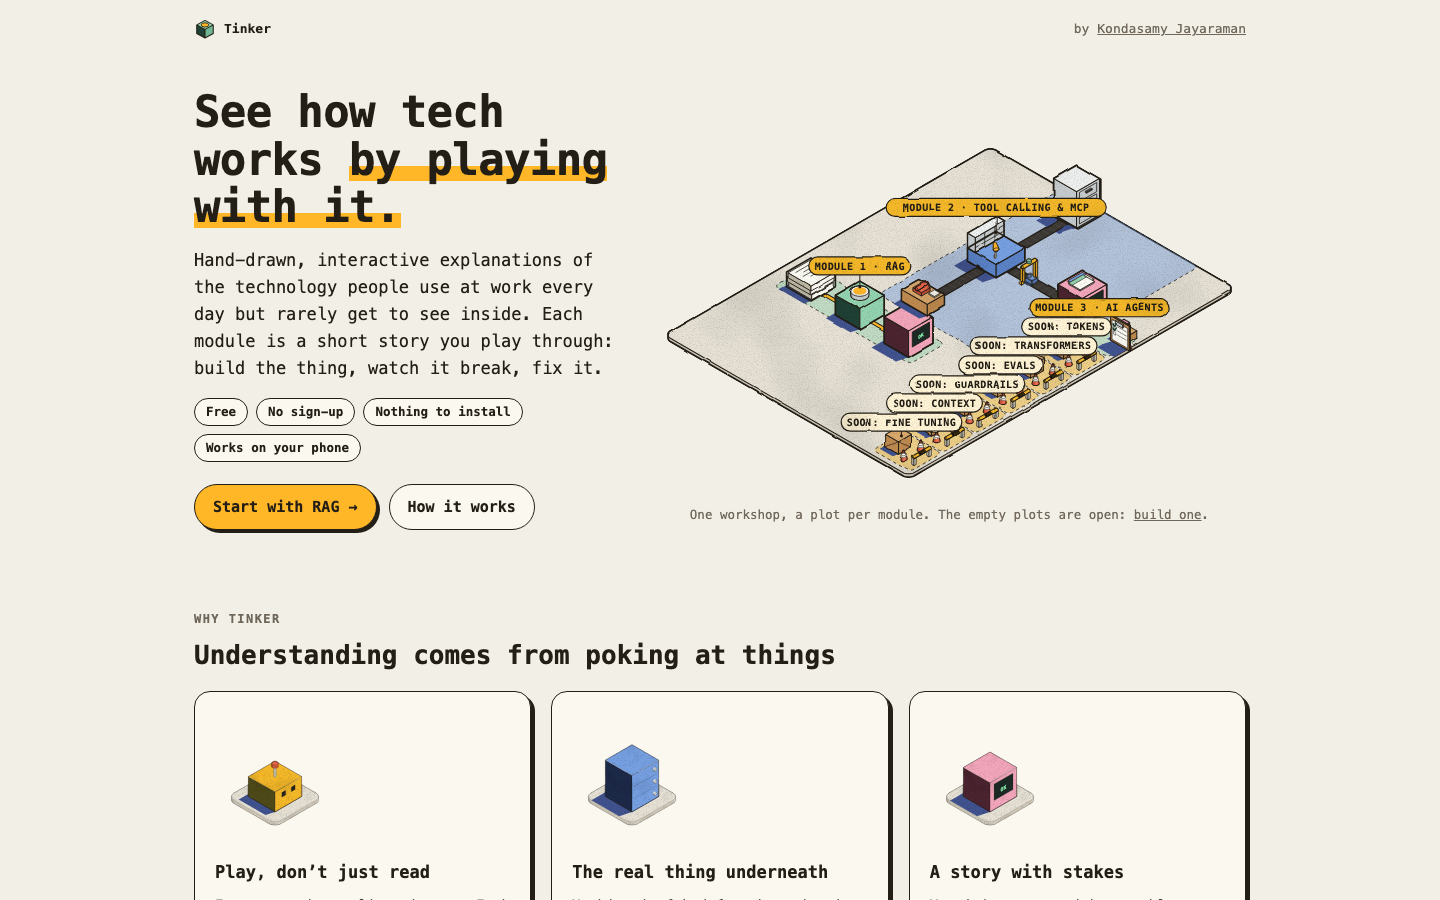
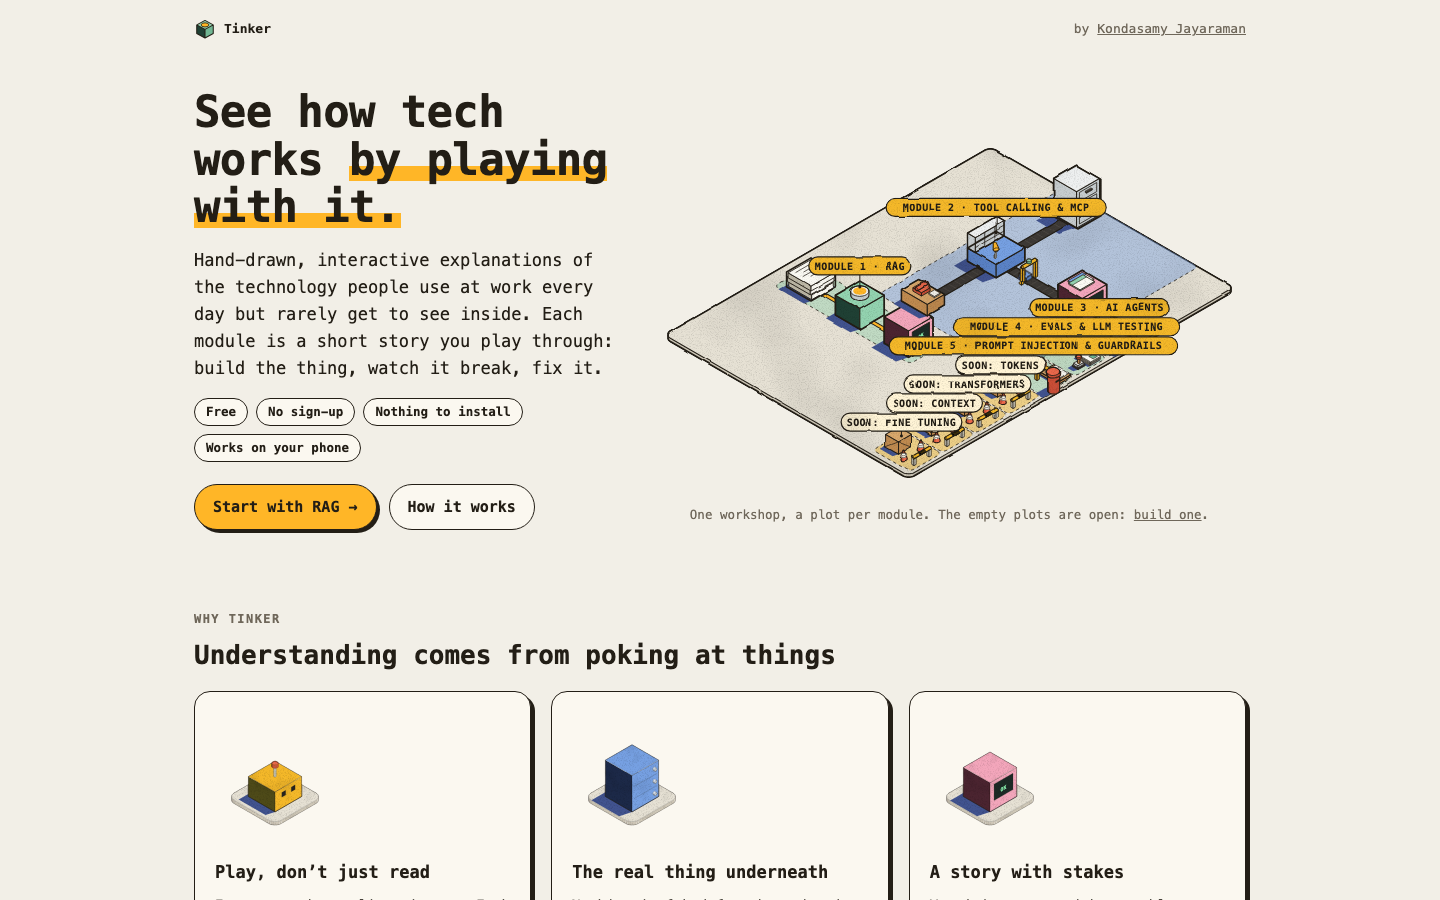
docs: refresh the README home screenshot with five live modules

Changed region(s): [[0.5938, 0.3422, 0.8438, 0.4356]]

diff --git a/README.md b/README.md
@@ -4,7 +4,7 @@
 
 Each module is a short story you play through: the picture on the left is live, the story on the right asks you to do one thing at a time in it, and you watch what changes. Build the thing, break it, fix it.
 
-![Tinker home: one workshop, a plot per module. RAG, tool calling, AI agents and evals are live; the planned modules are building sites](docs/images/home.png)
+![Tinker home: one workshop, a plot per module. RAG, tool calling, AI agents, evals and guardrails are live; the planned modules are building sites](docs/images/home.png)
 
 ---
 
